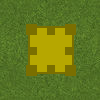
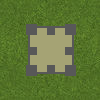
Enemies now follow the round files! Changed a texture for turret I

Changed region(s): [[0.24, 0.24, 0.78, 0.78]]

diff --git a/src/playing/Playing.java b/src/playing/Playing.java
@@ -8,16 +8,15 @@ package playing;
 
 import java.util.ArrayList;
 import enemies.Enemy;
-import enemies.Enemy_1;
 import main.Main;
 import turrets.*;
 
 public class Playing {
 	
 	// Different Levels
-	private static final String LEVEL_1 = "assets/levels/level_1.csv";
-	//private static final String LEVEL_2 = "assets/levels/level_2.csv";
-	//private static final String LEVEL_3 = "assets/levels/level_3.csv";
+	public static final String LEVEL_1 = "assets/levels/level_1.csv";
+	public static final String LEVEL_2 = "assets/levels/level_2.csv";
+	public static final String LEVEL_3 = "assets/levels/level_3.csv";
 
 	// Playing states
 	public static final int PLAYING = 0;
@@ -37,33 +36,70 @@ public class Playing {
 	public static final int QUIT         = 98;
 	public static final int GRID_ELEMENT = 99;
 	
+	// Difficulty
+	public static final int EASY   = 1;
+	public static final int MEDIUM = 2;
+	public static final int HARD   = 3;
+	
 	public static int selected = UNSELECTED;
 	
 	// Player stats
 	public static int coins;
 	public static int round;
-
+	public static int lives;
+	
+	// Waves | Rounds
+	private static Wave wave;
+	private static long time_end;
+	private static int spawn_num;
+	
 	private static ArrayList<Enemy> enemies;
 	private static ArrayList<Arrow> arrows;
 		
-	public static void create(){
-		coins = 1000;
-		round = 1;
+	public static void create(int difficulty, int round, String level){
 		
-		grid  = new Grid(LEVEL_1);
-		gui   = new GUI();
+		Playing.round = round;
 
+		// Coins and lives depends on the difficulty
+		switch (difficulty) {
+			case HARD:
+				coins = 100;
+				lives = 1;
+				break;
+			case MEDIUM:
+				coins = 250;
+				lives = 10;
+				break;
+			default:
+				coins = 300;
+				lives = 20;
+				break;
+		}
+		
+		// Instantiating for the GUI and grid interface
+		grid = new Grid(level);
+		gui  = new GUI();
+
+		// Instantiates dependencies for the enemy
 		Enemy.find_path(grid.start_tileX, grid.start_tileY);
-		arrows = new ArrayList<Arrow>();
-		enemies = new ArrayList<Enemy>();
+		enemies = new ArrayList<Enemy>(); // Enemy list
+		arrows = new ArrayList<Arrow>();  // Arrow list
 		
-		
-		enemies.add(new Enemy_1(grid.spawn_x, grid.spawn_y, grid.getTileSize())); 
-		
+		// Initialising for the rounds
+		wave = new Wave();
+		time_end = 0;
+		spawn_num = 0;
+		wave.produceWave(round, Wave.EASY);
 	}
 	
 	public static void update(){
 		
+		//Spawning
+		long time = System.currentTimeMillis();
+		if ( time > time_end && spawn_num < wave.enemies.length) {
+			enemies.add(wave.enemies[spawn_num]);
+			time_end = time + ((long) (wave.spawn_delays[spawn_num++]*1000F));
+		}
 		// Updates the gui and gets the button if it is pushed
 		int btn = gui.update();
 		grid.update(); // Updates the grid
@@ -71,7 +107,10 @@ public class Playing {
 		// Updates the enemies
 		for (int i = 0; i < enemies.size(); i++) {
 			enemies.get(i).update();
-			if (enemies.get(i).reached) enemies.remove(i);
+			if (enemies.get(i).reached) {
+				lives--;
+				enemies.remove(i);
+			}
 		}
 		
 		// Fires arrows at the enemies 
@@ -92,17 +131,19 @@ public class Playing {
 		for (int arrow = 0; arrow < arrows.size(); arrow++) {
 			arrows.get(arrow).update();
 			for (int enemy = 0; enemy < enemies.size(); enemy++) {
-				if (arrows.get(arrow).collidesWith(
-						enemies.get(enemy).getCX(), 
-						enemies.get(enemy).getCY(), 
-						enemies.get(enemy).getRadius())) {
+				float x = enemies.get(enemy).getCX();
+				float y = enemies.get(enemy).getCY();
+				float r = enemies.get(enemy).getRadius();
+				if (arrows.get(arrow).collidesWith(x, y, r)) {
 					if (enemies.get(enemy).health < 0) {
+						coins += enemies.get(enemy).getReward();
 						enemies.remove(enemy);
 					}
 					else {
 						enemies.get(enemy).health -= arrows.get(arrow).getDamage();
 					}
 					arrows.remove(arrow);
+					break;
 				}
 			}
 		}

diff --git a/src/playing/Wave.java b/src/playing/Wave.java
@@ -30,19 +30,20 @@ public class Wave {
 	public static final String MEDIUM  = "assets/rounds/medium.csv";
 	public static final String HARD    = "assets/rounds/hard.csv";
 	
-	private Enemy[] enemies;
-	private double[] spawn_delays;
+	public Enemy[] enemies;
+	public double[] spawn_delays;
 
+	@SuppressWarnings("resource")
 	public void produceWave(int round, String difficulty) {
-		String[] string_enemies = null;
-		String[] string_spawn_delays = null;
 		try {
+			String[] string_enemies = null;
+			String[] string_spawn_delays = null;
 			File file = new File(difficulty);
 			Scanner inputStream;
 			inputStream = new Scanner(file);
 			while (inputStream.hasNext()) {
 				String raw_data = inputStream.next();
-				if (raw_data == "round"+round) {
+				if (raw_data.split(",")[0].equals("round"+round)) {
 					raw_data = inputStream.next();
 					string_enemies = raw_data.split(",");
 					raw_data = inputStream.next();
@@ -50,40 +51,43 @@ public class Wave {
 					break;
 				}
 			}
+			if (string_enemies == null) {
+				System.err.println("Level does not exist!!");
+				throw new FileNotFoundException();
+			}
 			inputStream.close();
+			enemies = new Enemy[string_enemies.length];
+			float spawn_x = Playing.grid.spawn_x;
+			float spawn_y = Playing.grid.spawn_y;
+			float tile_size = Playing.grid.getTileSize();
+			for (int i = 0; i < string_enemies.length; i++){
+				if (string_enemies[i].equals("1")) {
+					enemies[i] = new Enemy_1(
+							spawn_x, 
+							spawn_y, 
+							tile_size);
+				}
+				if (string_enemies[i].equals("2")) {
+					enemies[i] = new Enemy_2(
+							spawn_x, 
+							spawn_y, 
+							tile_size);
+				}
+				if (string_enemies[i].equals("3")) {
+					enemies[i] = new Enemy_3(
+							spawn_x, 
+							spawn_y, 
+							tile_size);
+				}
+			}
+			
+			spawn_delays = new double[string_spawn_delays.length];
+			for (int i = 0; i < string_spawn_delays.length; i++){
+				spawn_delays[i] =  Float.parseFloat(string_spawn_delays[i]);
+			}
 		} 
 		catch (FileNotFoundException e) {
 			e.printStackTrace();
-		}
-		
-		enemies = new Enemy[enemies.length];
-		float spawn_x = Playing.grid.spawn_x;
-		float spawn_y = Playing.grid.spawn_y;
-		float tile_size = Playing.grid.getTileSize();
-		for (int i = 0; i < string_enemies.length; i++){
-			if (string_enemies[i] == "1") {
-				enemies[i] = new Enemy_1(
-						spawn_x, 
-						spawn_y, 
-						tile_size);
-			}
-			if (string_enemies[i] == "2") {
-				enemies[i] = new Enemy_2(
-						spawn_x, 
-						spawn_y, 
-						tile_size);
-			}
-			if (string_enemies[i] == "3") {
-				enemies[i] = new Enemy_3(
-						spawn_x, 
-						spawn_y, 
-						tile_size);
-			}
-		}
-		
-		spawn_delays = new double[string_spawn_delays.length];
-		for (int i = 0; i < string_spawn_delays.length; i++){
-			spawn_delays[i] =  Float.parseFloat(string_spawn_delays[i]);
 		}
 	}
 

diff --git a/src/playing/GUI.java b/src/playing/GUI.java
@@ -35,7 +35,8 @@ public class GUI {
 	private float stats_y = Main.window.getHeight() - stats_h;
 	private Text text_coins;
 	private Text text_round;
-	private int text_size = 24;
+	private Text text_lives;
+	private int text_size = 20;
 
 	// Button variables
 	private final float BUTTON_SIZE = 50;
@@ -76,6 +77,9 @@ public class GUI {
 		text_round = new Text(
 				"Level: ", 
 				(int) stats_x+text_size, (int) stats_y+(text_size*2), text_size);
+		text_lives = new Text(
+				"Lives: ", 
+				(int) stats_x+text_size, (int) stats_y+(text_size*3), text_size);
 	}
 	
 	public int update(){
@@ -95,7 +99,7 @@ public class GUI {
 			}
 		}
 		
-		// Open and close GUI button
+		// The button that open and closes the GUI
 		if (mx > open_button_x &&
 				mx < open_button_x+open_button_w &&
 				my > open_button_y &&
@@ -184,12 +188,17 @@ public class GUI {
 		Main.window.setColour(LINE_COLOUR);
 		Main.window.drawLine(stats_x, stats_y, stats_x+stats_w, stats_y);
 		Main.window.drawLine(stats_x, stats_y, stats_x, stats_y+stats_h);
+		
+		// Statistics
 		text_coins.text = "Coins: "+Playing.coins;
 		text_round.text = "Level: "+Playing.round;
-		text_coins.setPosition((int)stats_x+text_size, (int)stats_y+text_size);
-		text_round.setPosition((int)stats_x+text_size, (int)stats_y+text_size*2);
+		text_lives.text = "Lives: "+Playing.lives;
+		text_coins.setPosition(stats_x+text_size, stats_y+text_size);
+		text_round.setPosition(stats_x+text_size, stats_y+text_size*2);
+		text_lives.setPosition(stats_x+text_size, stats_y+text_size*3);
 		text_coins.draw();
 		text_round.draw();
+		text_lives.draw();
 	}
 	
 	public boolean isClicked() {

diff --git a/src/engine/io/Window.java b/src/engine/io/Window.java
@@ -201,14 +201,6 @@ public class Window {
 		glColor4f(rgba[0], rgba[1], rgba[2], rgba[3]);
 	}
 	
-	// Returns true if a certain mouse button is down
-	// 0 = lmb
-	// 1 = rmb
-	public boolean isMouseDown(int mouseButton)
-	{
-		return GLFW.glfwGetMouseButton(window, mouseButton) == 1;
-	}
-	
 	// If a certain key is down, return true
 	public boolean isKeyPressed(int keyCode)
 	{
@@ -219,6 +211,14 @@ public class Window {
 	public boolean isKeyReleased(int keyCode)
 	{
 		return !isKeyDown(keyCode) && keys[keyCode];
+	}
+	
+	// Returns true if a certain mouse button is down
+	// 0 = lmb
+	// 1 = rmb
+	public boolean isMouseDown(int mouseButton)
+	{
+		return GLFW.glfwGetMouseButton(window, mouseButton) == 1;
 	}
 	
 	// If a mouse btn is down, return true

diff --git a/src/enemies/Enemy.java b/src/enemies/Enemy.java
@@ -14,13 +14,15 @@ import engine.io.Node;
  */
 public abstract class Enemy {
 	public int health;
-	protected float x, y, w, h, scale, xvel, yvel, end_time, speed;
+	protected float x, y, w, h, scale, xvel, yvel, end_time, speed, radius;
 	private float time = 90000000;
 	protected Texture texture;
+	protected int value = 5;
+	
+	// Used for animation
 	private int t_num = 0; // Texture number
 	private int prev_t_num = 0;
 	private String path;
-	private float radius;
 	
 	// The center of the enemy
 	private float cx;
@@ -238,5 +240,9 @@ public abstract class Enemy {
 	// Returns the hitbox (radius) of the enemy.
 	public float getRadius() {
 		return radius;
+	}
+	
+	public int getReward() {
+		return value;
 	}
 }

diff --git a/src/main/Main_menu.java b/src/main/Main_menu.java
@@ -154,7 +154,7 @@ public class Main_menu {
 		state = button;
 		switch (button){
 			case NEW_GAME:
-				Playing.create();
+				Playing.create(Playing.EASY, 1, Playing.LEVEL_1);
 				break;
 			case EXIT:
 				System.exit(-1);

diff --git a/src/gui/Button.java b/src/gui/Button.java
@@ -86,7 +86,7 @@ public class Button {
 			g = 0.4f;
 			b = 0.4f;
 			
-			if (Main.window.isMousePressed(0)){
+			if (Main.window.isMousePressed(Main.window.LEFT_MOUSE)){
 				return true;
 			}
 		}

diff --git a/src/enemies/Enemy_2.java b/src/enemies/Enemy_2.java
@@ -12,6 +12,7 @@ public class Enemy_2 extends Enemy{
 	public Enemy_2(float x, float y, float grid_size) {
 		super("enemies/enemy_2/", x, y, grid_size);
 		health = 100;
+		value = 10;
 	}
 	
 }

diff --git a/src/enemies/Enemy_3.java b/src/enemies/Enemy_3.java
@@ -12,6 +12,7 @@ public class Enemy_3 extends Enemy{
 	public Enemy_3(float x, float y, float grid_size) {
 		super("enemies/enemy_3/", x, y, grid_size);
 		health = 200;
+		value = 15;
 	}
 	
 }

diff --git a/src/enemies/Enemy_1.java b/src/enemies/Enemy_1.java
@@ -13,6 +13,7 @@ public class Enemy_1 extends Enemy{
 		super("enemies/enemy_1/", x, y, grid_size);
 		speed = 1.5f;
 		health = 25;
+		value = 5;
 	}
 	
 }
